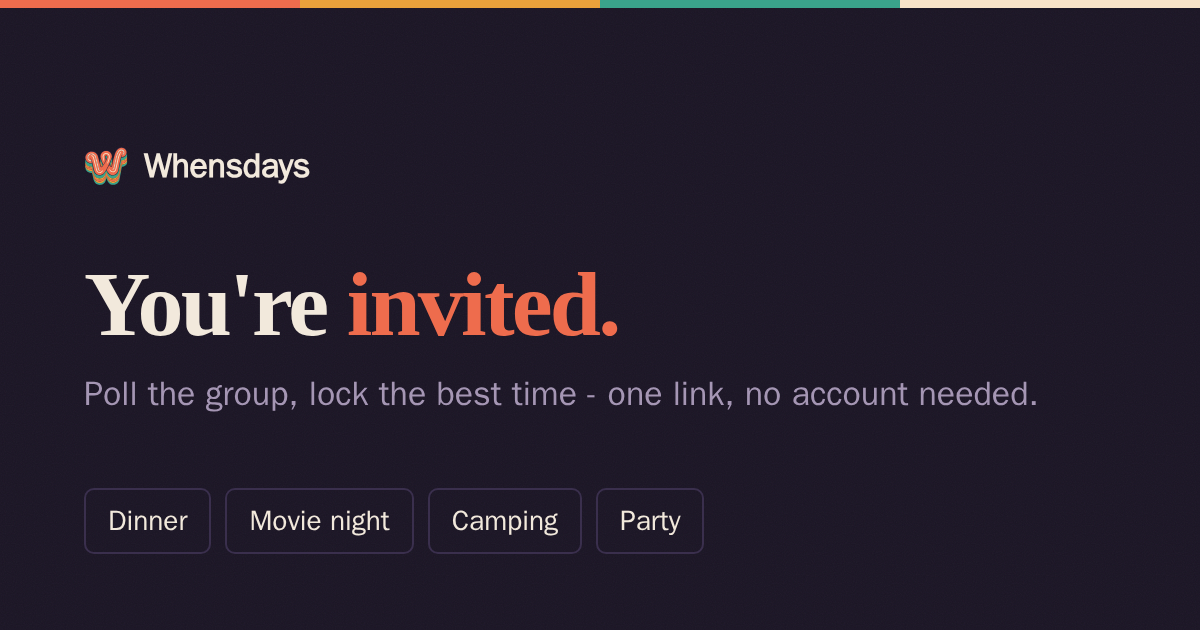
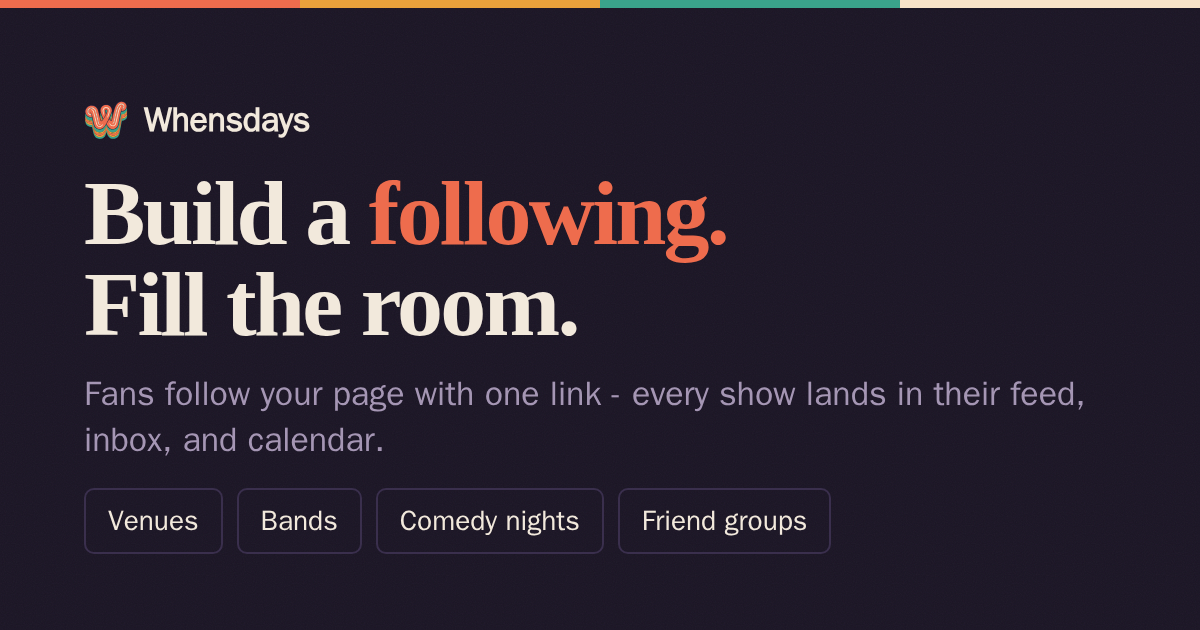
House Lights landing: lead with pages/following, not friend planning
Direction change mid-phase-6: the hero now leads with the pages/following
pitch (venues, comedians, bands building an audience) with friend-group
planning demoted to a quiet secondary line, per updated product direction.

- Eyebrow "Whensdays" (mono stamp, amber) + new Fraunces H1 "Build a
  following. Fill the room." + subline about pages/follows/feed-inbox-
  calendar. Primary CTA "Create your page" -> /sign-up (page creation
  needs an account - signed-in users never see the landing).
- Secondary line under the CTA: "Planning with friends instead? Start a
  plan - one link, no accounts needed." - reuses the existing start-plan
  testid/routing into the guest /start flow untouched. The old "Free - no
  account needed" micro-copy is gone (it would now contradict the primary
  CTA, which does require an account).
- Type chips moved below the secondary line (they're the friends-path
  audience now); product screenshots, points row, and footer unchanged.
- Considered retargeting one of the three product shots to the group
  public page (follower count + upcoming events, GroupPublicView) per
  the brief's suggestion. Not done: in DEV_AUTH mode the hermetic E2E
  stack has no reachable signed-out state except the /landing alias
  hardcoded in App.tsx, so reaching a bare /g/{id} signed-out would need
  a new dev-only route alias - real plumbing, not a retarget. Flagged in
  docs/product/VENUE-PAGES.md V5 for whoever picks up page onboarding.
[…]

diff --git a/apps/web/index.html b/apps/web/index.html
@@ -23,8 +23,8 @@
          per-event cards from the API). %VITE_APP_ORIGIN% is baked at build time. -->
     <meta property="og:type" content="website" />
     <meta property="og:site_name" content="Whensdays" />
-    <meta property="og:title" content="Whensdays - plans, minus the group-chat chaos" />
-    <meta property="og:description" content="Poll the group on when everyone's free, lock the best time, drop one link - votes and RSVPs with no account needed." />
+    <meta property="og:title" content="Whensdays - build a following, fill the room" />
+    <meta property="og:description" content="Fans follow your venue, band, or comedy night with one link - every show lands in their feed, inbox, and calendar." />
     <meta property="og:url" content="%VITE_APP_ORIGIN%/" />
     <meta property="og:image" content="%VITE_APP_ORIGIN%/og-card.png" />
     <meta property="og:image:width" content="1200" />
@@ -122,19 +122,23 @@
            block flashed on cold loads until the JS bundle executed. NOT
            display:none - screen readers landing pre-mount can still read it. -->
       <main style="position:absolute;width:1px;height:1px;overflow:hidden;clip:rect(0 0 0 0);white-space:nowrap">
-        <h1>Whensdays - plans, minus the group-chat chaos</h1>
-        <p>A free scheduling app for RECURRING friend groups and clubs - book
-        clubs, run clubs, game nights, jams. One link finds when the whole
-        group is free, locks the winning dates as a series, and keeps the
-        streak alive; members vote and RSVP with no app and no account.</p>
+        <h1>Whensdays - build a following, fill the room</h1>
+        <p>A free page for your venue, band, or comedy night: fans follow it
+        with one link, and every show you post lands in their feed, their
+        inbox, and their calendar. Whensdays also runs the scheduling side
+        for RECURRING friend groups and clubs - book clubs, run clubs, game
+        nights, jams - so the same group finds when everyone's free, locks
+        the winning dates as a series, and keeps the streak alive; members
+        vote and RSVP with no app and no account.</p>
         <h2>How it works</h2>
         <ul>
+          <li>Pages: a venue, performer, or group gets a page fans follow with one link - new shows post straight to followers' feed, inbox, and calendar</li>
           <li>Availability polls: exact times, this week, this month, or a general day-and-time grid</li>
           <li>Schedule one date or several at once as a recurring series</li>
           <li>Groups with streaks, re-polls, recaps, and reminders</li>
           <li>Calendar sync (Google and Apple) and one-tap RSVP straight from email</li>
         </ul>
-        <h2>Free scheduling for groups that actually meet</h2>
+        <h2>Free scheduling and audience-building for groups that actually meet</h2>
         <p><a href="/privacy/">Privacy policy</a> · <a href="/terms/">Terms of service</a> · <a href="/cookies/">Cookie policy</a></p>
         <p>Free alternative to <a href="/vs/doodle/">Doodle</a>,
         <a href="/vs/when2meet/">When2meet</a>,

diff --git a/apps/web/src/styles.css b/apps/web/src/styles.css
@@ -716,7 +716,17 @@ textarea.input { resize: vertical; min-height: 64px; }
 .land > *:nth-child(n+6) { animation-delay: 0.36s; }
 @media (prefers-reduced-motion: reduce) { .land > * { animation: none; } }
 .land-go { font-size: 1.1rem; padding: 0.9rem 2.2rem; }
-.land-micro { color: var(--muted); font-size: 0.85rem; margin-top: 0.7rem; }
+/* Eyebrow above the display hero - mono stamp voice, amber, same language as
+   the comp's intro label. */
+.land-eyebrow {
+  display: block; font-family: var(--font-data); font-weight: 600; font-size: 0.75rem;
+  text-transform: uppercase; letter-spacing: 0.16em; color: var(--time);
+  margin: 3rem auto 0;
+}
+/* The secondary path (friend-group planning) - one quiet line under the
+   primary CTA, not its own section. */
+.land-micro { color: var(--muted); font-size: 0.9rem; margin-top: 1rem; }
+.land-micro a { font-weight: 700; }
 /* The product shots ARE the pitch: three phones, gently fanned - invite ->
    pick the one best time -> spread a recurring series. Side by side on
    desktop; on a phone the third would be too small, so the trio scrolls
@@ -748,11 +758,11 @@ textarea.input { resize: vertical; min-height: 64px; }
   font-family: var(--font-display);
   font-size: clamp(2.9rem, 9vw, 5rem);
   font-weight: 900; letter-spacing: -0.02em; line-height: 0.98;
-  margin: 3.2rem auto 0;
+  margin: 0.5rem auto 0;
 }
 .land-sub { color: var(--muted); max-width: 460px; margin: 1rem auto 1.6rem; font-size: 1.05rem; }
 .land-cta { display: flex; gap: 0.6rem; justify-content: center; flex-wrap: wrap; }
-.land-showcase { display: flex; gap: 0.5rem; justify-content: center; flex-wrap: wrap; margin: 2.2rem auto 0; max-width: 520px; }
+.land-showcase { display: flex; gap: 0.5rem; justify-content: center; flex-wrap: wrap; margin: 2rem auto 0; max-width: 520px; }
 .land-showcase .chip { cursor: default; }
 .land-points { display: flex; gap: 0.6rem 1.4rem; justify-content: center; flex-wrap: wrap; margin-top: 2rem; color: var(--muted); font-size: 0.9rem; }
 .land-points b { color: var(--ink); }

diff --git a/apps/web/src/App.tsx b/apps/web/src/App.tsx
@@ -412,16 +412,24 @@ function Landing() {
         {!DEV_AUTH && <a href="/sign-in" className="btn ghost sm" data-testid="sign-in">Sign in</a>}
       </nav>
       <div className="land">
-        <h1 className="land-title">Hangouts,<br />handled.</h1>
+        <span className="land-eyebrow">Whensdays</span>
+        {/* Pages/following leads (venues, comedians, bands building an
+            audience); friend-group planning is the secondary path right
+            below the CTA - it still gets the product shots and the chips,
+            just not top billing. */}
+        <h1 className="land-title">Build a following.<br />Fill the room.</h1>
         <p className="land-sub">
-          Book club, run club, game night, karaoke - one link finds when the
-          whole group is free, locks the winning dates as a series, and keeps
-          the streak alive.
+          Make a page for your venue, band, or comedy night. Fans follow it
+          with one link - and every show you post lands in their feed, their
+          inbox, and their calendar.
         </p>
         <div className="land-cta">
-          <a href="/start" className="btn primary land-go" data-testid="start-plan">Get your link</a>
+          <a href="/sign-up" className="btn primary land-go" data-testid="create-page">Create your page</a>
         </div>
-        <p className="land-micro">Free · no account needed</p>
+        <p className="land-micro">
+          Planning with friends instead?{" "}
+          <a href="/start" data-testid="start-plan">Start a plan</a> - one link, no accounts needed.
+        </p>
         <div className="land-showcase" aria-hidden>
           {showcase.map((s) => <span key={s} className="chip">{s}</span>)}
         </div>

diff --git a/e2e/tests/scheduler.spec.ts b/e2e/tests/scheduler.spec.ts
@@ -2423,9 +2423,13 @@ test.describe("scheduler", () => {
     // /landing is the dev-only alias (no signed-out state exists in the
     // hermetic stack, so the landing is otherwise unreachable here).
     await page.goto("/landing");
-    await expect(page.locator(".land-title")).toContainText("weekly meet ups");
+    // Pages/following leads the hero; friend-group planning is the secondary
+    // path just under the primary CTA.
+    await expect(page.locator(".land-title")).toContainText("Fill the room");
+    await expect(page.getByTestId("create-page")).toHaveAttribute("href", "/sign-up");
     await expect(page.locator(".land-shot")).toHaveCount(3); // invite + week pick + month series
     await expect(page.getByTestId("start-plan")).toBeVisible();
+    await expect(page.getByTestId("start-plan")).toHaveAttribute("href", "/start");
     await expect(page.locator(".land-points")).toContainText("whole series");
     // Support contact in the footer.
     await expect(page.locator('a[href^="mailto:support@whensdays.com"]')).toBeVisible();

diff --git a/docs/product/VENUE-PAGES.md b/docs/product/VENUE-PAGES.md
@@ -88,13 +88,20 @@ Make the public page worth being someone's ONLY web presence:
 - OG card for the bare link should say follow, not join (done in base; verify copy).
 
 ### V5 — Page onboarding + creation intent (Sonnet)
+- **Close the landing CTA loop (now urgent — the landing ships "Create your page" → /sign-up):** the CTA
+  should carry `?intent=page` (or equivalent) through the sign-up redirect so the first signed-in screen
+  routes into create-a-page (group create pre-tuned to page defaults below) instead of a generic Home.
+  Use the same mechanism the guest-login `?redirect_url=` flow already uses (same-origin only).
 - Group creation gains an optional purpose step: "Friends" vs "Venue / performer page" — SAME entity,
   the choice only tunes defaults and copy (a page defaults `listed` checked, shows the share-your-page
   card first, description placeholder "Tell people what you do and where"). Store nothing new server-side
   unless a single `groups.kind` text column ('friends'|'page', default 'friends') proves necessary for
   copy — prefer zero schema.
-- Landing/marketing: one section on the landing page addressed to performers ("Your shows, one link,
-  your fans' calendars") linking to create-a-page; sync crawler block + llms.txt per CLAUDE.md.
+- Landing/marketing: DONE EARLIER THAN PLANNED — the user re-scoped the landing (Aug 2026) to LEAD with
+  the pages/following pitch ("Build a following. Fill the room.", primary CTA "Create your page" →
+  /sign-up, friends-planning demoted to a secondary line into the guest /start flow). Shipped in House
+  Lights Phase 6. V5's landing work is therefore only: point the "Create your page" path at the real
+  onboarding below once it exists.
 - Seed list: the four venue-sync groups + the user's improv/standup contacts get their pages dressed
   (icon, description) — manual, not code.
 
